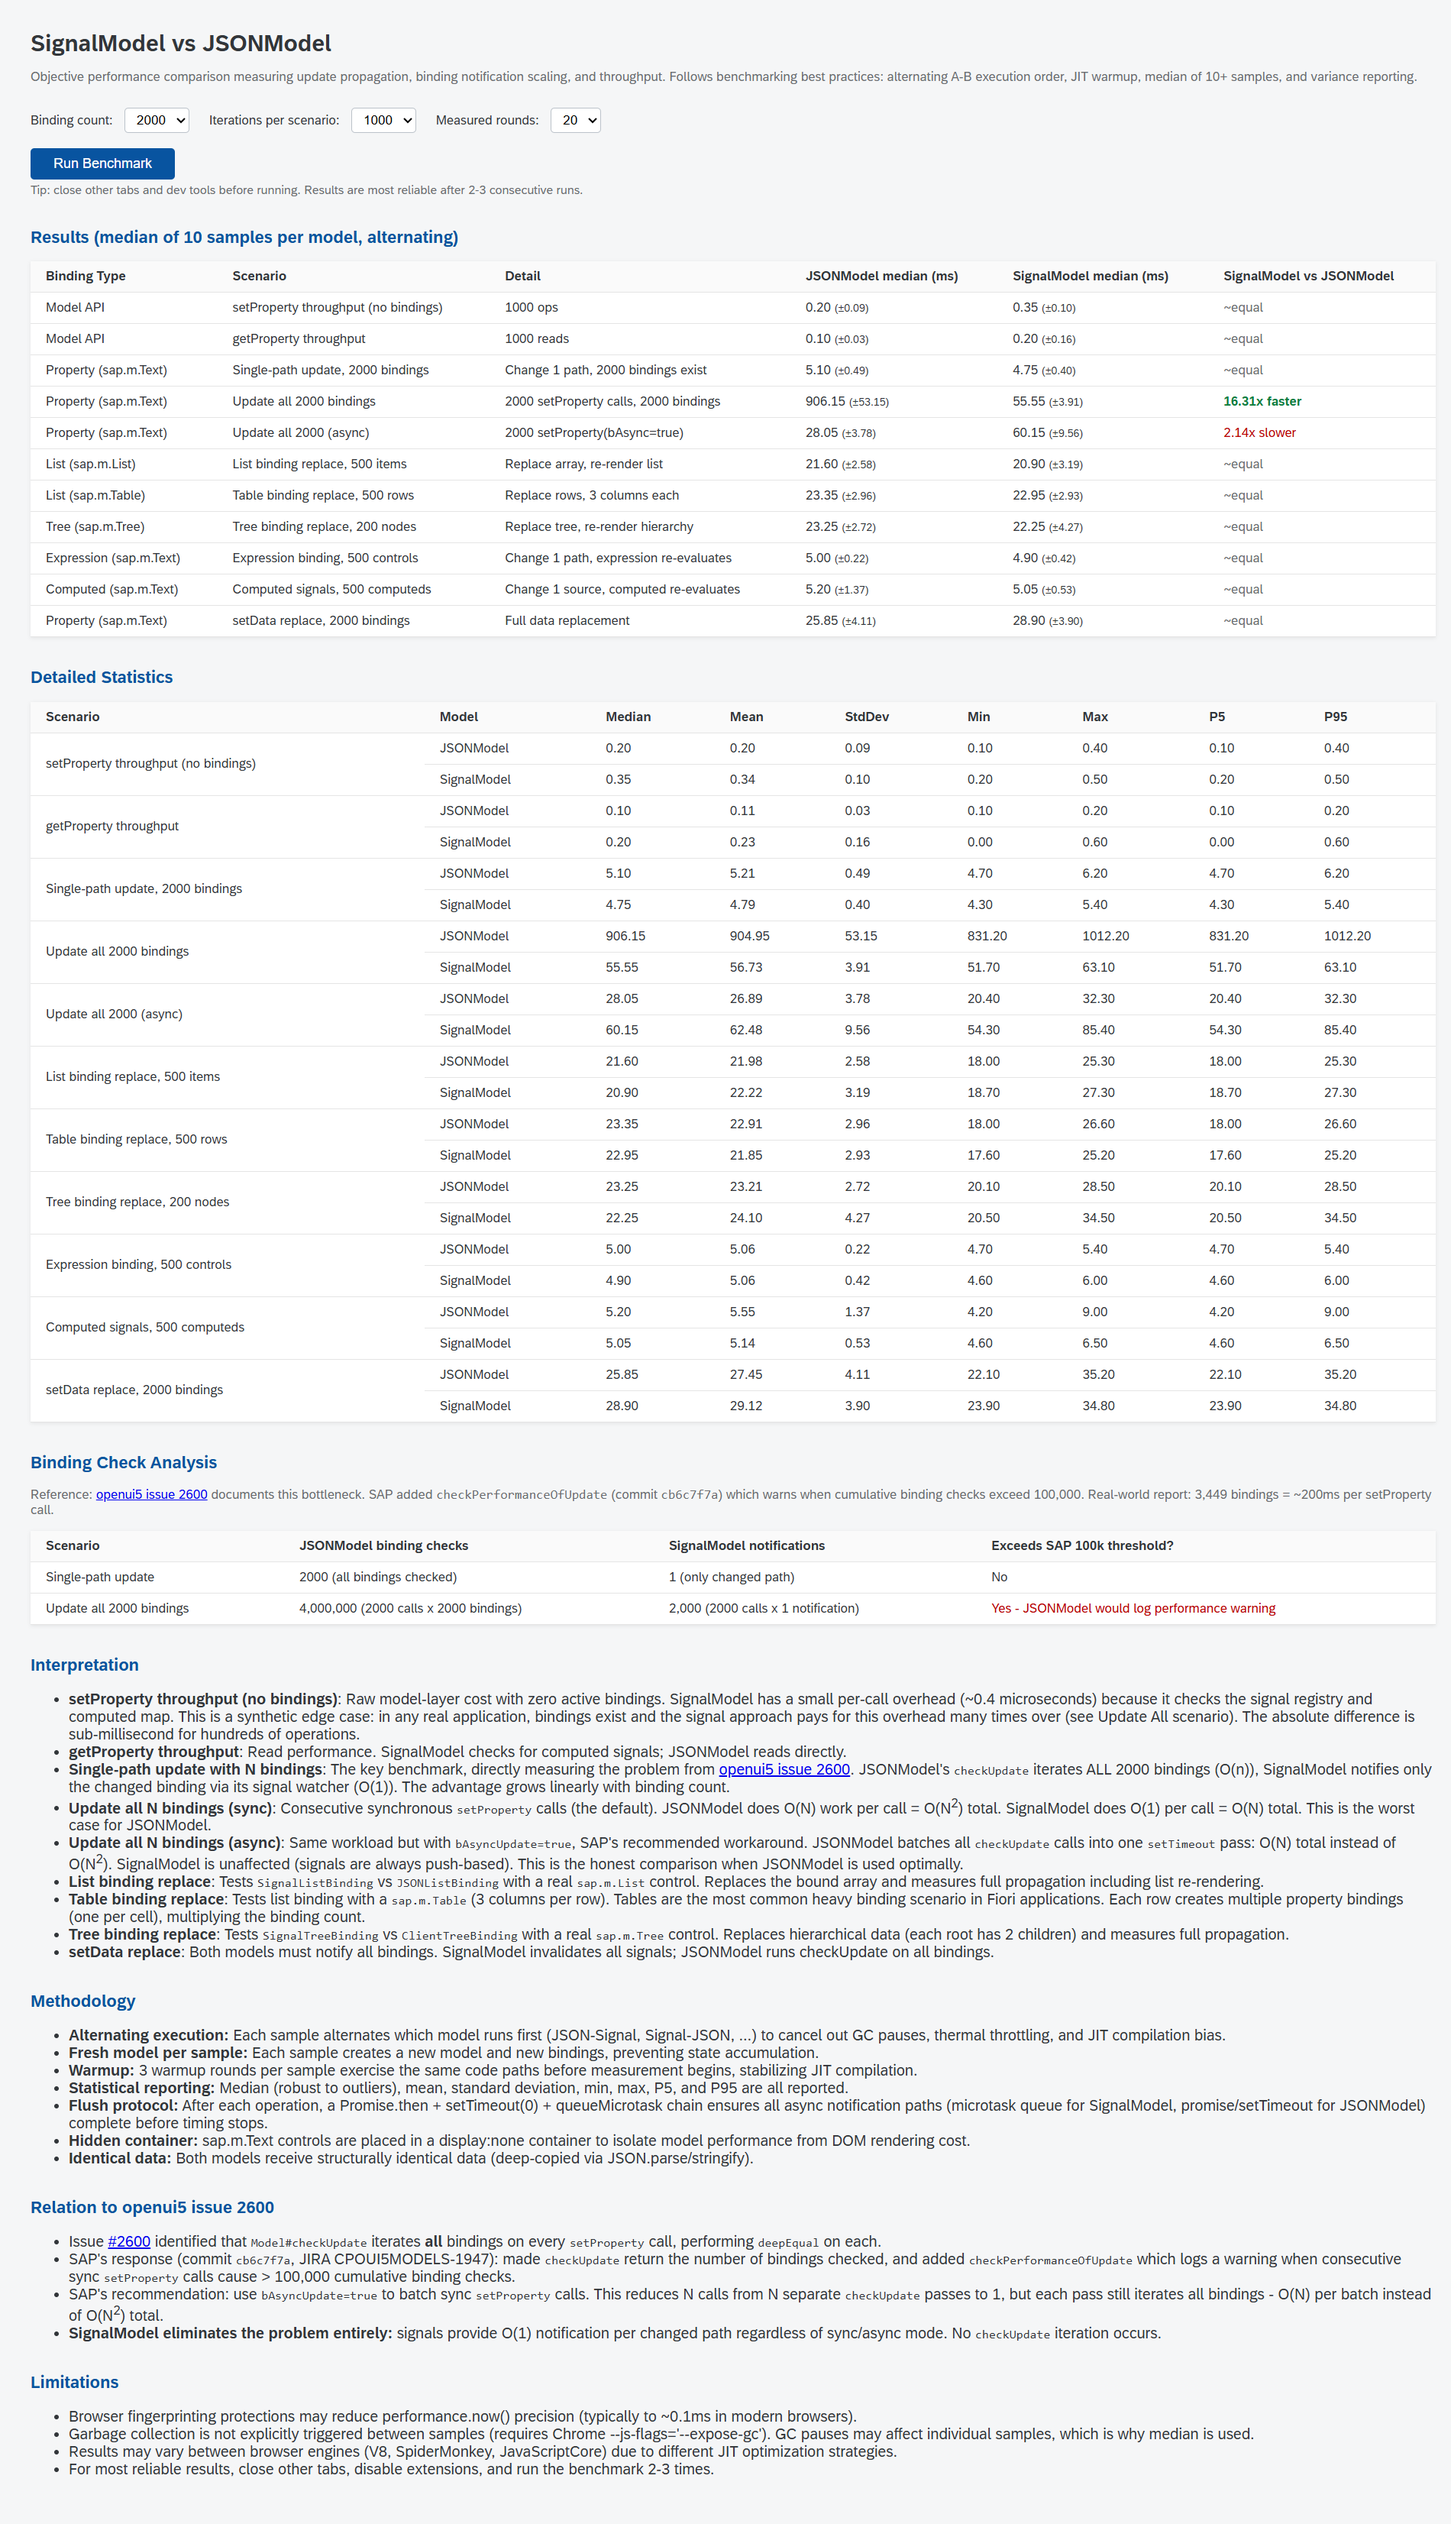
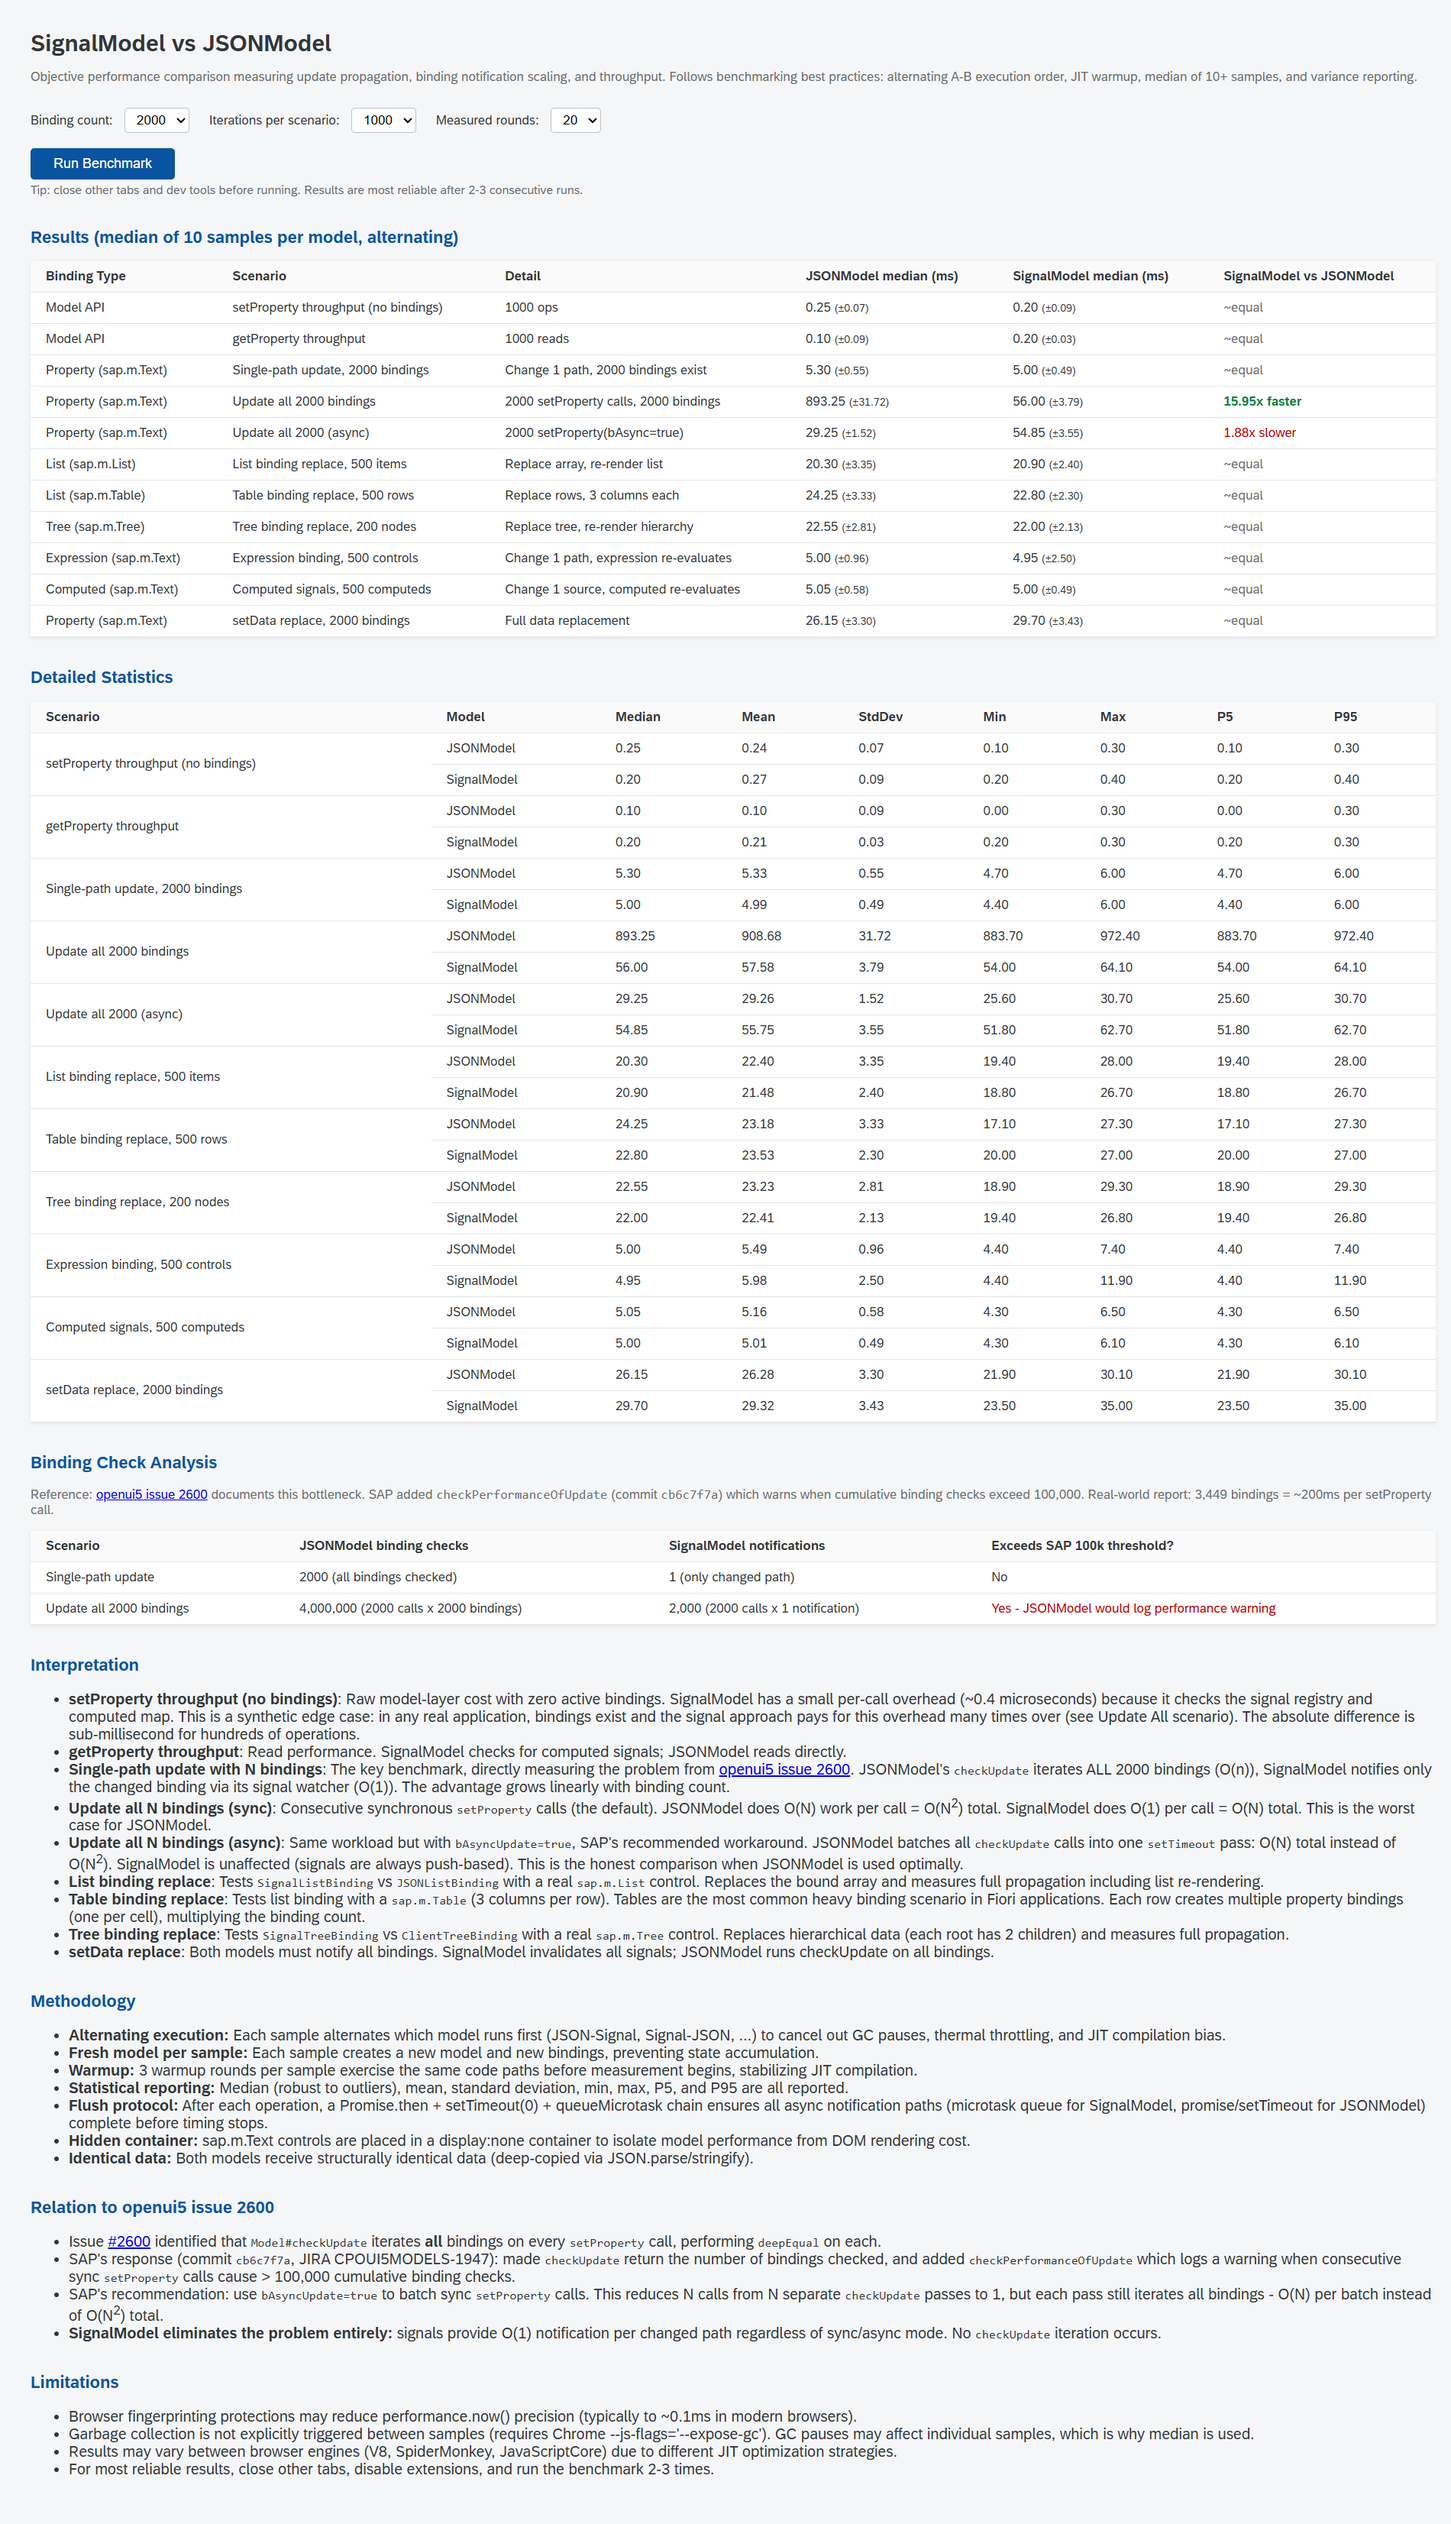
docs: fresh benchmark screenshots, updated numbers, asInternal JSDoc
- Fresh screenshots at 500, 1000, 2000 bindings (post list-binding fix)
- Updated scaling table and full results in benchmark README
- Added JSDoc to asInternal() in all three binding files explaining
  why the cast is necessary (UI5 runtime internals not in type stubs)

diff --git a/packages/lib/src/SignalPropertyBinding.ts b/packages/lib/src/SignalPropertyBinding.ts
@@ -20,7 +20,10 @@ type ClientPropertyBindingInternal = ClientPropertyBinding & {
   _fireChange(oEvent: { reason: ChangeReason }): void;
 };
 
-/** Cast `this` to access undeclared UI5 internals. */
+/**
+ * Casts to an internal type that includes UI5 runtime properties not exposed
+ * by `@openui5/types` (e.g. `oValue`, `bSuspended`, `_fireChange`).
+ */
 function asInternal(self: SignalPropertyBinding): ClientPropertyBindingInternal {
   return self as unknown as ClientPropertyBindingInternal;
 }

diff --git a/packages/lib/src/SignalListBinding.ts b/packages/lib/src/SignalListBinding.ts
@@ -24,6 +24,10 @@ type ListBindingInternal = ClientListBinding & {
   isRelative(): boolean;
 };
 
+/**
+ * Casts to an internal type that includes UI5 runtime properties not exposed
+ * by `@openui5/types` (e.g. `oList`, `bSuspended`, `_fireChange`).
+ */
 function asInternal(self: SignalListBinding): ListBindingInternal {
   return self as unknown as ListBindingInternal;
 }

diff --git a/packages/lib/src/SignalTreeBinding.ts b/packages/lib/src/SignalTreeBinding.ts
@@ -16,6 +16,10 @@ type TreeBindingInternal = ClientTreeBinding & {
   isRelative(): boolean;
 };
 
+/**
+ * Casts to an internal type that includes UI5 runtime properties not exposed
+ * by `@openui5/types` (e.g. `sPath`, `bSuspended`, `_fireChange`).
+ */
 function asInternal(self: SignalTreeBinding): TreeBindingInternal {
   return self as unknown as TreeBindingInternal;
 }

diff --git a/packages/lib/test/benchmark/README.md b/packages/lib/test/benchmark/README.md
@@ -83,25 +83,25 @@ Uses Bessel-corrected (sample) variance. Reports: median, mean, standard deviati
 
 | Bindings | JSON sync | Signal sync | Signal advantage | JSON async | Signal async |
 | -------- | --------- | ----------- | ---------------- | ---------- | ------------ |
-| 500      | 79.15ms   | 18.00ms     | **4.4x faster**  | 15.85ms    | 17.40ms      |
-| 1000     | 195.75ms  | 18.60ms     | **10.5x faster** | 12.70ms    | 18.85ms      |
-| 2000     | 906.15ms  | 55.55ms     | **16.3x faster** | 28.05ms    | 60.15ms      |
+| 500      | 53.90ms   | 11.05ms     | **4.9x faster**  | 10.15ms    | 11.70ms      |
+| 1000     | 198.05ms  | 18.70ms     | **10.6x faster** | 12.25ms    | 19.40ms      |
+| 2000     | 893.25ms  | 56.00ms     | **16.0x faster** | 29.25ms    | 54.85ms      |
 
 ### Full results at 1000 bindings (20 rounds)
 
 | Binding Type            | Scenario                          | JSONModel | SignalModel | Comparison        |
 | ----------------------- | --------------------------------- | --------- | ----------- | ----------------- |
-| Model API               | setProperty (no bindings)         | 0.20ms    | 0.30ms      | ~equal            |
-| Model API               | getProperty                       | 0.15ms    | 0.15ms      | ~equal            |
-| Property (sap.m.Text)   | Single-path update, 1000 bindings | 4.60ms    | 4.85ms      | ~equal            |
-| Property (sap.m.Text)   | Update all 1000 (sync)            | 195.75ms  | 18.60ms     | **10.52x faster** |
-| Property (sap.m.Text)   | Update all 1000 (async)           | 12.70ms   | 18.85ms     | **1.48x slower**  |
-| List (sap.m.List)       | List binding replace, 500 items   | 19.20ms   | 20.00ms     | ~equal            |
-| List (sap.m.Table)      | Table binding replace, 500 rows   | 18.35ms   | 18.75ms     | ~equal            |
-| Tree (sap.m.Tree)       | Tree binding replace, 200 nodes   | 21.30ms   | 20.75ms     | ~equal            |
-| Expression (sap.m.Text) | Expression binding, 500 controls  | 5.15ms    | 5.15ms      | ~equal            |
-| Computed (sap.m.Text)   | Computed signals, 500 computeds   | 5.10ms    | 5.05ms      | ~equal            |
-| Property (sap.m.Text)   | setData replace                   | 14.75ms   | 16.25ms     | ~equal            |
+| Model API               | setProperty (no bindings)         | 0.20ms    | 0.20ms      | ~equal            |
+| Model API               | getProperty                       | 0.10ms    | 0.20ms      | ~equal            |
+| Property (sap.m.Text)   | Single-path update, 1000 bindings | 5.20ms    | 4.90ms      | ~equal            |
+| Property (sap.m.Text)   | Update all 1000 (sync)            | 198.05ms  | 18.70ms     | **10.59x faster** |
+| Property (sap.m.Text)   | Update all 1000 (async)           | 12.25ms   | 19.40ms     | **1.58x slower**  |
+| List (sap.m.List)       | List binding replace, 500 items   | 19.05ms   | 19.65ms     | ~equal            |
+| List (sap.m.Table)      | Table binding replace, 500 rows   | 19.15ms   | 18.70ms     | ~equal            |
+| Tree (sap.m.Tree)       | Tree binding replace, 200 nodes   | 21.25ms   | 20.80ms     | ~equal            |
+| Expression (sap.m.Text) | Expression binding, 500 controls  | 5.00ms    | 5.00ms      | ~equal            |
+| Computed (sap.m.Text)   | Computed signals, 500 computeds   | 5.10ms    | 5.00ms      | ~equal            |
+| Property (sap.m.Text)   | setData replace                   | 15.05ms   | 15.65ms     | ~equal            |
 
 ### Honest Observations
 
@@ -113,7 +113,7 @@ The "Update all N bindings (sync)" scenario shows the largest difference: at 100
 
 JSONModel's `setProperty` accepts a `bAsyncUpdate` parameter. When `true`, it batches all `checkUpdate` calls into a single `setTimeout` pass, collapsing O(N^2) to O(N). The benchmark includes this scenario ("Update all N async") for an honest comparison.
 
-With `bAsyncUpdate=true`, **JSONModel is actually faster than SignalModel** for bulk batch updates. At 1000 bindings: JSONModel-async takes ~13ms while SignalModel takes ~19ms. Both execute ONE batched pass, but the per-binding work differs:
+With `bAsyncUpdate=true`, **JSONModel is actually faster than SignalModel** for bulk batch updates. At 1000 bindings: JSONModel-async takes ~12ms while SignalModel takes ~19ms. Both execute ONE batched pass, but the per-binding work differs:
 
 | Step                         | JSONModel async                 | SignalModel                                                              |
 | ---------------------------- | ------------------------------- | ------------------------------------------------------------------------ |
